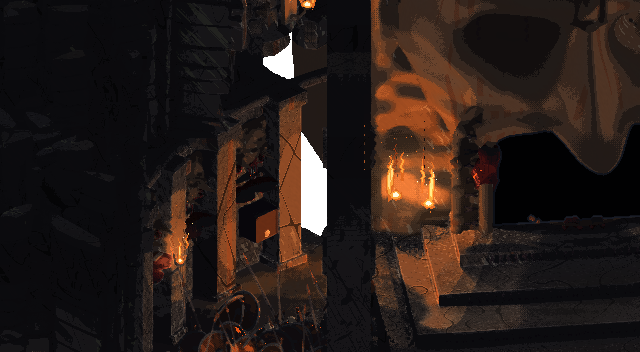
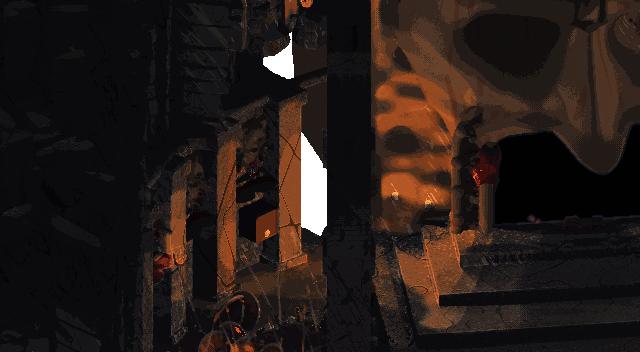
The cave repainted without frozen flames; the fires relight the carvings live with their flicker; the pool swells and sloshes, lighter; candles doubled

Changed region(s): [[0.5625, 0.4062, 0.7188, 0.6562], [0.25, 0.6562, 0.3125, 0.75], [0.4375, 0.0, 0.5, 0.0312]]

diff --git a/tools/landkit3d/cave_export.py b/tools/landkit3d/cave_export.py
@@ -183,24 +183,24 @@ def main():
     # blood) and at the stair's side ends every few steps; each a small warm light, drawn live (world/live_flames.gd)
     rnd = np.random.default_rng(9302)
     cands = []
-    for ang in np.linspace(0.0, 2 * math.pi, 9, endpoint=False) + rnd.uniform(-0.25, 0.25, 9):
+    for ang in np.linspace(0.0, 2 * math.pi, 18, endpoint=False) + rnd.uniform(-0.12, 0.12, 18):   # (doubled, Derek 2026-10-10)
         rr = CV.BASIN[2] + 2.0 + rnd.uniform(0.0, 1.6)
         cx_, cy_ = CV.BASIN[0] + math.cos(ang) * rr, CV.BASIN[1] + math.sin(ang) * rr * 0.9
         f_ = CV.floor_at(cx_, cy_)
         if f_ is None or CV._ell(cx_, cy_, CV.POOL) > 0.9 or abs(cx_ - (CV.STAIR[0] + CV.STAIR[1]) / 2) < 3.0 and cy_ < CV.STAIR[2] + 1.0:
             continue
         cands.append((cx_, cy_, f_))
-    for i in range(2, CV.STEPS - 1, 3):
+    for i in range(1, CV.STEPS - 1, 2):
         u_ = (i + 0.5) / CV.STEPS
         sy_ = CV.STAIR[2] - (CV.STAIR[2] - CV.STAIR[3]) * u_
-        sx_ = (CV.STAIR[0] + 0.35) if (i // 3) % 2 == 0 else (CV.STAIR[1] - 0.35)
+        sx_ = (CV.STAIR[0] + 0.35) if (i // 2) % 2 == 0 else (CV.STAIR[1] - 0.35)
         cands.append((sx_, sy_, CV.floor_at(sx_, sy_) or 0.0))
     # and the hall's floor before the dais (Derek, 2026-10-10: "the bottom area needs candles"): clusters left on the
     # flags, kept off the worn way up to the face and off the dais
     hx_, hy_, hrx, hry = CV.HALL
     got = 0
-    for k_ in range(80):
-        if got >= 11:
+    for k_ in range(200):
+        if got >= 22:
             break
         a_ = rnd.uniform(0, 2 * math.pi)
         rr = math.sqrt(rnd.uniform(0.08, 0.85))
@@ -210,7 +210,7 @@ def main():
             continue
         if abs(cx_ - hx_) < 1.6:                                       # the worn way up the middle
             continue
-        if any(math.hypot(cx_ - a, cy_ - b) < 2.6 for a, b, _ in cands):
+        if any(math.hypot(cx_ - a, cy_ - b) < 1.8 for a, b, _ in cands):
             continue
         cands.append((cx_, cy_, f_))
         got += 1
